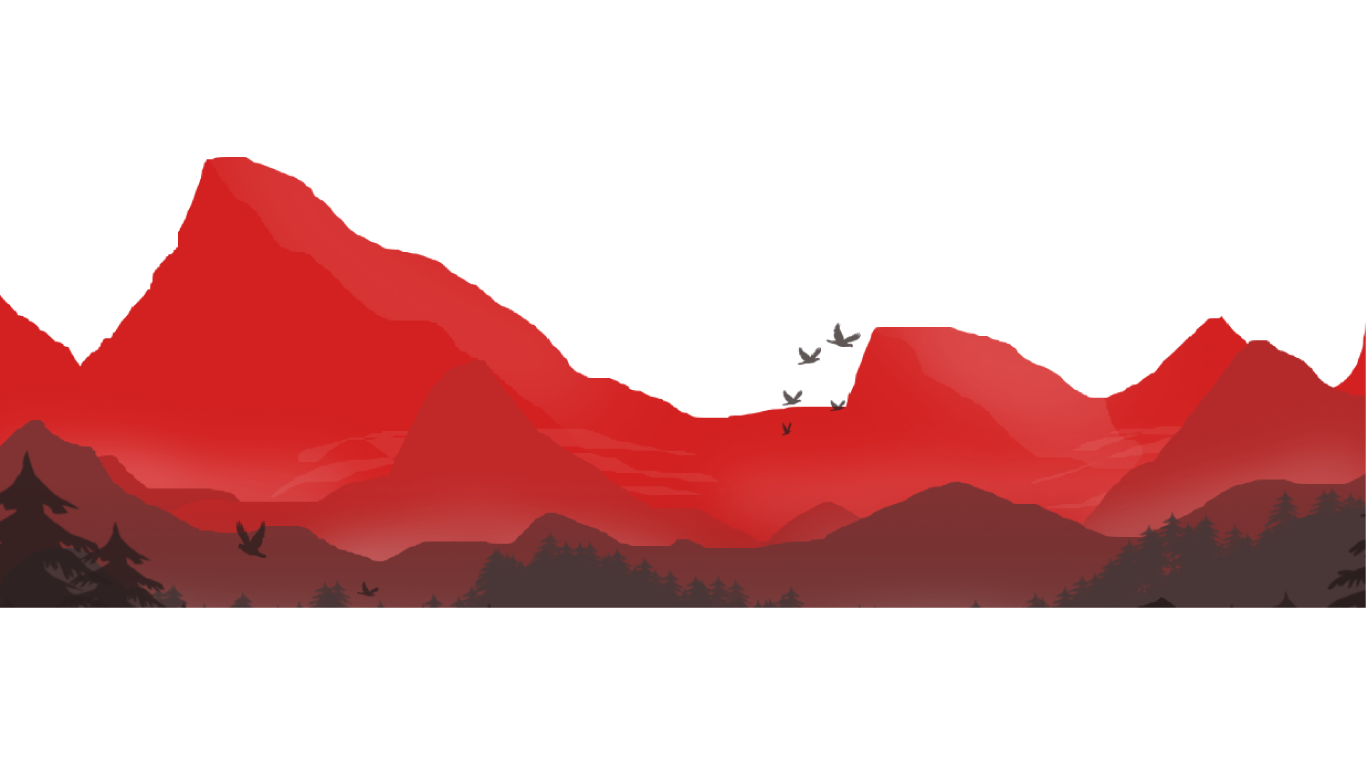
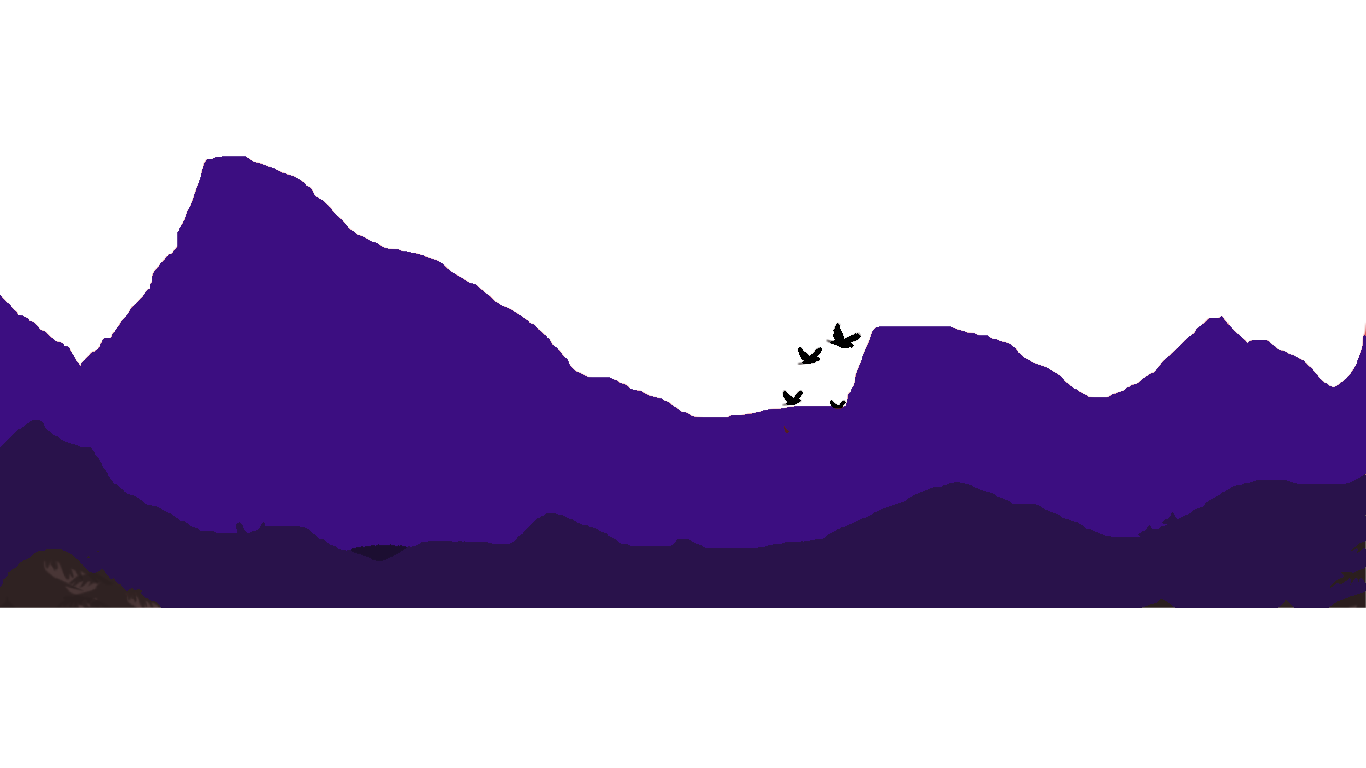
cambios de color parallax

diff --git a/src/components/parallax/_parallax.scss b/src/components/parallax/_parallax.scss
@@ -12,7 +12,7 @@
         display: flex;
         justify-content: center;
         align-items: center;
-   
+        background-color: #f7be8e;
         background-repeat: no-repeat;
         background-size: cover;
     }
